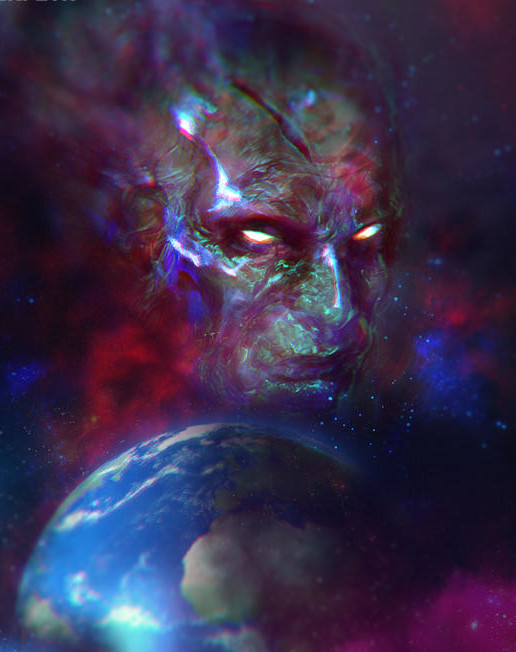
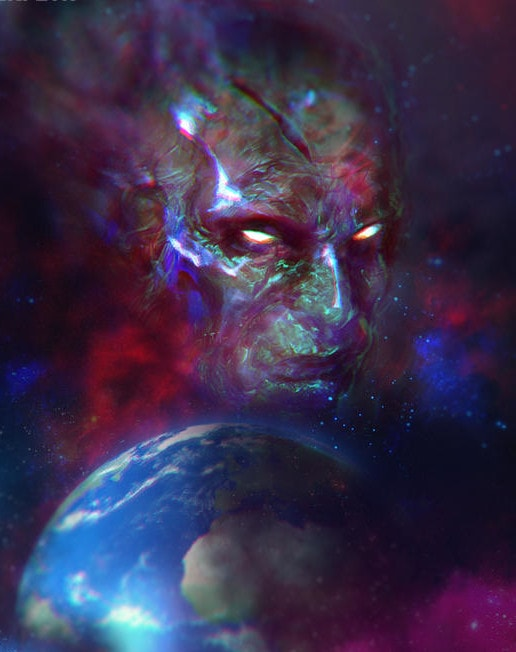
Optimizing images of DocteurLestrange R.D.R. scenario

diff --git a/index.md b/index.md
@@ -9,10 +9,10 @@ Mes créations de jeux de rôle hebergées ici:
 - [Dungeon Heart : Heroes & Spells (FR)](DungeonHeartHeroesAndSpells) - [(English version)](DungeonHeartHeroesAndSpells/DungeonHeartHeroesAndSpells_en.html)
 
 - Pour [_Run. Die. Repeat._](https://labrysgames.itch.io/run-die-repeat) :
+  * lien vers la traduction du jeu en français au bas de cette page
   * [10 scénarios](RunDieRepeat/RunDieRepeat-scenarios-FR.html)
   * scénario [Les Couloirs du Temps](RunDieRepeat/LesCouloirsDuTemps.html)
   * scénario [Docteur Lestrange](RunDieRepeat/DocteurLestrange.html)
-  * lien vers la traduction en français au bas de cette page
 
 <!-- [chimera](chimera) -->
 <!-- [Sous Terre](sous-terre) -->
@@ -26,7 +26,7 @@ Pour en savoir plus, [rendez-vous sur mon blog](https://chezsoi.org/lucas/blog/p
 
 Jeux de Grant Howitt :
 
-- [Ce n'est pas une place d'honneur](ce-nest-pas-une-place-dhonneur) ([version PDF](https://github.com/Lucas-C/jdr/releases/download/ce-nest-pas-une-place-dhonneur-v1.3/ce-nest-pas-une-place-dhonneur-v1.3.pdf)
+- [Ce n'est pas une place d'honneur](ce-nest-pas-une-place-dhonneur) ([version PDF](https://github.com/Lucas-C/jdr/releases/download/ce-nest-pas-une-place-dhonneur-v1.3/ce-nest-pas-une-place-dhonneur-v1.3.pdf))
 - [Genius Loci](genius-loci) ([version PDF](https://chezsoi.org/lucas/blog/images/jdr/genius-loci.pdf))
 - [Plus de place en Enfer](plus-de-place-en-enfer) ([version PDF](https://chezsoi.org/lucas/blog/images/jdr/plus-de-place-en-enfer.pdf))
 

diff --git a/RunDieRepeat/DocteurLestrange.md b/RunDieRepeat/DocteurLestrange.md
@@ -1,12 +1,10 @@
 <!-- NEXT:
-- itch.io page
-
 Publié / com' sur :
-- [ ] https://laubergedesreveurs.forumactif.com/t220-run-die-repeat-jeudi-11-fevrier-a-21h
-- [ ] https://lucas-c.itch.io/docteur-lestrange
-- [ ] blog (article + https://chezsoi.org/lucas/blog/pages/jeux-de-role.html + mention sur Discord)
-- [ ] http://troplongpaslu.fr
-- [ ] http://www.scenariotheque.org
+- [x] https://laubergedesreveurs.forumactif.com/t220-run-die-repeat-jeudi-11-fevrier-a-21h
+- [x] https://lucas-c.itch.io/docteur-lestrange
+- [x] blog (article + https://chezsoi.org/lucas/blog/pages/jeux-de-role.html + mention sur Discord)
+- [x] http://troplongpaslu.fr
+- [x] http://www.scenariotheque.org
 
 Playtest 2021/02/12 avec Jérôme, Jordane & Laetitia de l'Auberge des Rêveurs
 -->
